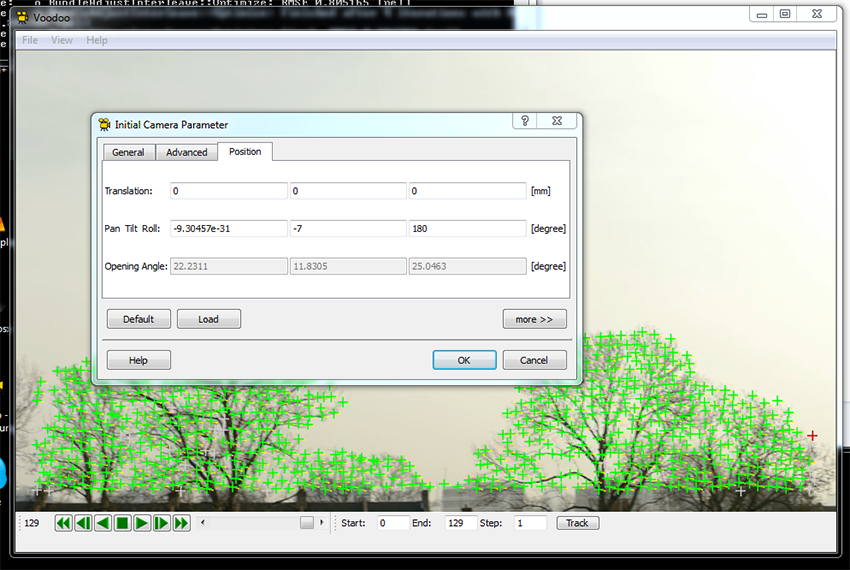
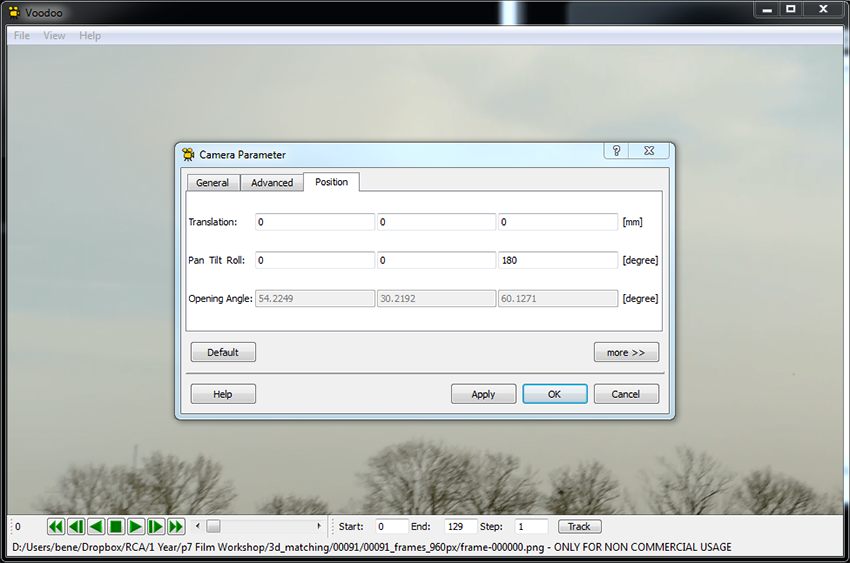
added tutorial

diff --git a/README.md b/README.md
@@ -1,4 +1,39 @@
-vvvv_voodoo_3d_matching
-=======================
+# Tutorial - How to do 3d matching with VVVV and Voodoo Camera Tracker
+
+This is the technical documentation of my project [Syn Bio Ads](http://benedikt-gross.de/log/2012/04/synthetic-biology-ads/), check the video underneath. It explains how to use the [Voodoo Camera Tracker](http://www.digilab.uni-hannover.de/docs/manual.html) to match realworld filmed footage with a virtual 3D scene in [VVVV](http://vvvv.org/). All necessary steps are explained step by step in the mini tutorial below.
 
 [![Syn Bio Ads - Vimeo Teaser](https://raw.github.com/b-g/vvvv_voodoo_3d_matching/master/img/Syn_Bio_Ads_Vimeo_Teaser.png)](https://vimeo.com/40592029 "Watch: Syn Bio Ads on Vimeo")
+[Syn Bio Ads](http://benedikt-gross.de/log/2012/04/synthetic-biology-ads/)
+
+
+The tutorial assumens that you use provide the sample image sequence `/data/frames/frame-000000.png ... ` or that you have prepared your own image sequence.
+
+## Voodoo Camera Tracker
+
+1. `File -> Open -> Sequence` Chose an image sequence and chose the appropriate `Move Type`. I assume in this tutorial that the footage was filmed with a tripod (= camera was still in terms of XYZ and just the rotation of has to be matched). Hence select `rotation (camera on tripod)`.
+
+2. `View -> Camera Parameter, Tap "Position"` Set Roll to 180°, to flip the camera from the upside down default value. Don't ask, I don't have a clue why upside down is default.
+![Set Camera Parameters](https://raw.github.com/b-g/vvvv_voodoo_3d_matching/master/img/camera_settings.png "Set Camera Parameters")
+
+3. Press the `Track` button to create a 3D scene.
+
+4. `View -> 3D Scene Viewer` Check the result in 3D. Camera roll should be normal and not upside down.
+![3D Scene Viewer](https://raw.github.com/b-g/vvvv_voodoo_3d_matching/master/img/Voodoo_Scene_Geometry.png "3D Scene Viewer")
+
+5. `Save -> Texfile` Check the "Export All" option to get really the whole scene geometry exported.
+
+## VVVV
+![3D Scene Viewer VVVV](https://raw.github.com/b-g/vvvv_voodoo_3d_matching/master/img/VVVV.png "3D Scene Viewer VVVV")
+
+6. Open `voodoo_player_vvvv/_root_voodoo_test.v4p` in VVVV
+7. Adjust the `footage/frames` and the `voodoo file` parameters to point to the correct locations. Depending of the source footage you might have to change the framerate pins, the example patch is set to 29.97 FPS.
+
+That's it. From there one you are on your one :) Would be nice to see other projects using this technique/patch, feel free to drop an email to me.
+
+## Links
+* [Voodoo Camera Tracker](http://www.digilab.uni-hannover.de/docs/manual.html) of the Laboratorium für Informationstechnologie, University of Hannover. Official website, manual and documentation.
+* Voodoo Camera Tracker [download](http://www.viscoda.com/index.php/en/voodoo-download)
+* [VVVV](http://vvvv.org/)
+
+## Acknowledgements
+Special thanks to: The makers of Voodoo Camera Tracker that they made the software free to use for non commercial projects! And [Joreg](http://vvvv.org/users/joreg) who helped me to figure out how to translate the matrix defintions from Voodoo to VVVV speak!
